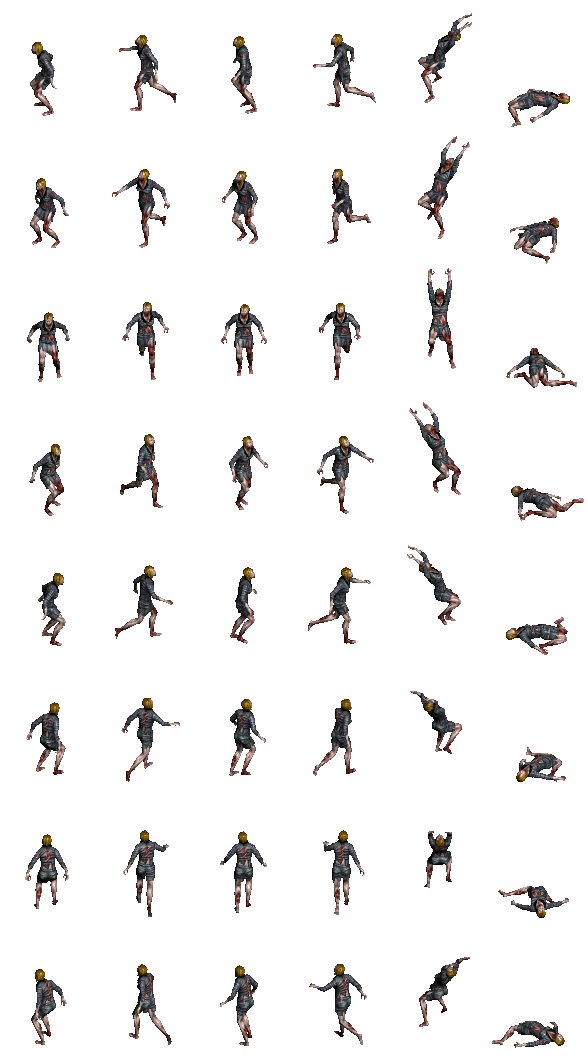
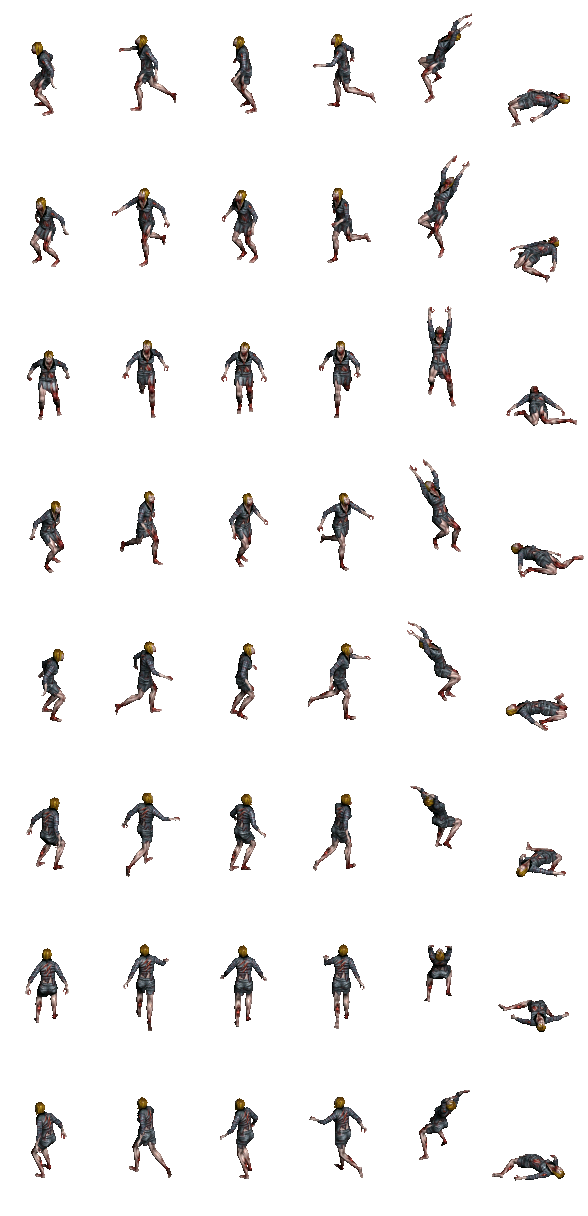
art: 중곡동 좀비 5종을 원작 클라이언트 스프라이트로 교체 (suit_m·stripe·banshee·office·worker)
- tools/ec-extract.py: 셀의 발 위치를 중앙 +36px로 고정(FEET) → 모든 시트가 같은 자리에 섬, 죽은 코드 제거
- 6종 시트 재추출(casual_f 포함), ART_OVERRIDES scale 0.6

Claude-Session: https://claude.ai/code/session_01TE2JjM5LkbkKvXeaEtJWKL

diff --git a/src/data/artOverrides.ts b/src/data/artOverrides.ts
@@ -54,5 +54,10 @@ export const ART_OVERRIDES: Partial<Record<TexKey, ArtOverride>> = {
   [TEX.icon_acid]: 'art/icon_acid.webp',
   [TEX.icon_bone]: 'art/icon_bone.webp',
   // original-client sprites extracted with tools/ec-extract.py (8 dirs × 6 frames, native ~62px figures)
-  [TEX.zombie_casual_f]: { url: 'art/zombie_casual_f.png', frameW: 98, frameH: 133, scale: 0.6 },
+  [TEX.zombie_casual_f]: { url: 'art/zombie_casual_f.png', frameW: 98, frameH: 152, scale: 0.6 },
+  [TEX.zombie_suit_m]: { url: 'art/zombie_suit_m.png', frameW: 146, frameH: 144, scale: 0.6 },
+  [TEX.zombie_stripe]: { url: 'art/zombie_stripe.png', frameW: 174, frameH: 150, scale: 0.6 },
+  [TEX.zombie_banshee]: { url: 'art/zombie_banshee.png', frameW: 158, frameH: 152, scale: 0.6 },
+  [TEX.zombie_office]: { url: 'art/zombie_office.png', frameW: 192, frameH: 150, scale: 0.6 },
+  [TEX.zombie_worker]: { url: 'art/zombie_worker.png', frameW: 202, frameH: 172, scale: 0.6 },
 };

diff --git a/tools/ec-extract.py b/tools/ec-extract.py
@@ -88,8 +88,11 @@ def layer_boxes(blob, fo):
     return out
 
 
+FEET = 36  # origin (feet) row below the cell centre: matches the drawn 48px figures (feet ~22 world px under the entity at scale 0.6)
+
+
 def auto_cell(blob, parts, part_ids, blocks, frames):
-    """smallest even cell (w, h, anchor_y) holding every used frame with the origin at bottom-center"""
+    """smallest even cell (w, h, anchor_y) holding every used frame, origin at bottom-centre, centre-to-feet fixed"""
     half = up = down = 0
     for pi in part_ids:
         for b in blocks:
@@ -97,7 +100,8 @@ def auto_cell(blob, parts, part_ids, blocks, frames):
                 if f < len(parts[pi][b]):
                     for w, h, ox, oy in layer_boxes(blob, parts[pi][b][f]):
                         half, up, down = max(half, ox, w - ox), max(up, oy), max(down, h - oy)
-    return (2 * half + 4, up + down + 4, up + 2)
+    ay = max(up + 2, down + 2 + 2 * FEET)
+    return (2 * half + 4, 2 * (ay - FEET), ay)  # feet sit FEET px below the cell centre in every sheet
 
 
 def compose(blob, pix_base, parts, part_ids, block, frame, cell):
@@ -138,10 +142,7 @@ def build(key, data, strip=False):
             sheet.alpha_composite(compose(blob, pix_base, parts, s['parts'], block, fr, cell), (c * cw, d * ch))
     out = os.path.join(os.path.dirname(__file__), '..', 'public', 'art', f'{key}.png')
     sheet.save(out); print(f'wrote {os.path.normpath(out)} frameW={cw} frameH={ch}  -> data/artOverrides.ts')
-    return
-    if False:
-        os.makedirs(os.path.join(os.path.dirname(__file__), 'out'), exist_ok=True)
-        sp = os.path.join(os.path.dirname(__file__), 'out', f'{key}_strip.png'); st.save(sp); print('wrote', os.path.normpath(sp), n, 'frames')
+
 
 
 if __name__ == '__main__':

diff --git a/작업기록/_다음에-이어서.md b/작업기록/_다음에-이어서.md
@@ -10,7 +10,7 @@
 ⚠ 2026-09-16 밤 사용자 지시: **6번(M14 잔여)을 먼저 끝내고** 3→4→5(원작 그림) 순서로 진행. 원작 그림은 "원본처럼 보여야" 하는 기준이라 시간이 제일 오래 걸리므로 뒤로 미룸.
 1. [Fable] 중곡동 기본 좀비 `zombie_casual_f` 원본 찾기 — 전체 .dat 첫 프레임 썸네일 스캔(scratchpad/thumbs) → 눈으로 선별 ☑ **05020.dat rid 13500** (같은 묶음 13501~13504 = 뚱보넥타이·초록셔츠·대머리흰셔츠·양복 좀비)
 2. [Fable] 추출기(tools/) → public/art/zombie_casual_f.png (8행=Dir순서 × 6열) → ART_OVERRIDES → 프레임 크기 조정 → 게임 스크린샷 vs docs/ref 비교 ☑ (e2e/out/zombie_shot1.png, 커밋 2단계)
-3. [Fable] 나머지 캐릭터(플레이어·NPC·다른 몬스터) 같은 파이프라인 ☐
+3. [Fable] 나머지 캐릭터 같은 파이프라인: 중곡동 좀비 5종(suit_m·stripe·banshee·office·worker) ☑ → 플레이어 ☐ NPC ☐ 다른 몬스터 ☐
 4. [Fable] 바닥 타일 — .mak(ZIP)/.btx(DDS) 해독 → draw/tiles.ts drawTilesAtlas 소스 분기 ☐
 5. [Fable] UI — ui_panel/ui_slot 9-slice 오버라이드 ☐
 6. [Opus OK] M14 잔여: (b) 총기 아이콘 밝기 보정 ☑ (c) 어설트 S등급 업적 2종 ☑ (d) 보관함 분류탭/정렬(Window.filterSortBar 공용) ☑ README M14 ☑ e2e 전체(Edge) ☑ 커밋/푸시 ☑ 아티팩트 v26 ☑ → **6번 완료, 3번(원작 그림)으로 진행 중**
@@ -37,3 +37,4 @@
 - 2026-09-16 20:45: zombie_casual_f 원작 그림으로 교체 완료(tsc·vitest 224·build 통과, 스크린샷 확인). 다음: 3번 나머지 캐릭터.
 - 2026-09-16 밤(Fable, 컨텍스트 압축 후 재개): M14 (b)(c)(d)+README 완료, 파비콘 추가(Edge favicon 404 해소). 보관함 e2e 1번 원인 = Esc가 다음 프레임 closeTop()으로 처리되는데 직후 openWindow('storage')가 먼저 열려 보관함이 닫힘 → 스펙에 대화창 닫힘 대기 1줄. tsc·vitest 225 통과. 남은 것: e2e 전체(Edge) → build → 커밋/푸시 → 아티팩트 v26 → 3번(좀비 5종: zombie_suit_m 시트는 만들어져 있으나 ART_OVERRIDES 미연결, 나머지 4종 프레임 지도만).
 - 2026-09-16 밤(계속): e2e 전체 Edge 55/56 → 감염체 스펙 실패 원인 = 발톱 전투의 발사 쿨다운이 무기 공용(gameState.fire)이라 산성 토사(rpm 40=1.5s) 첫 발이 늦게 나가 좀비 뒤에 착탄 → 스펙에 1.6s 대기 1줄. 재실행 감염체·보관함 8/8 통과. build 통과, M14 커밋/푸시. 다음: 아티팩트 v26 → 사용자에게 "디자인 들어간다" 알림 → 3번 좀비 5종.
+- 2026-09-16 밤(디자인 시작): 사용자에게 "M14 끝, 디자인 들어감" 알림(푸시). 추출기 auto_cell에 FEET=36 고정(발이 셀 중앙 +36px) → 6종 시트 재추출, ART_OVERRIDES 6종(scale 0.6). 스크린샷 e2e/out/zombie6_shot1.png 확인: 6종 정렬·크기 일치. tsc·vitest 225·build 통과. 다음: 플레이어 원작 스프라이트(00012.dat id 4305 남자 기본 몸 26×62 ×132프레임 — 무기별 자세 확인 필요).
